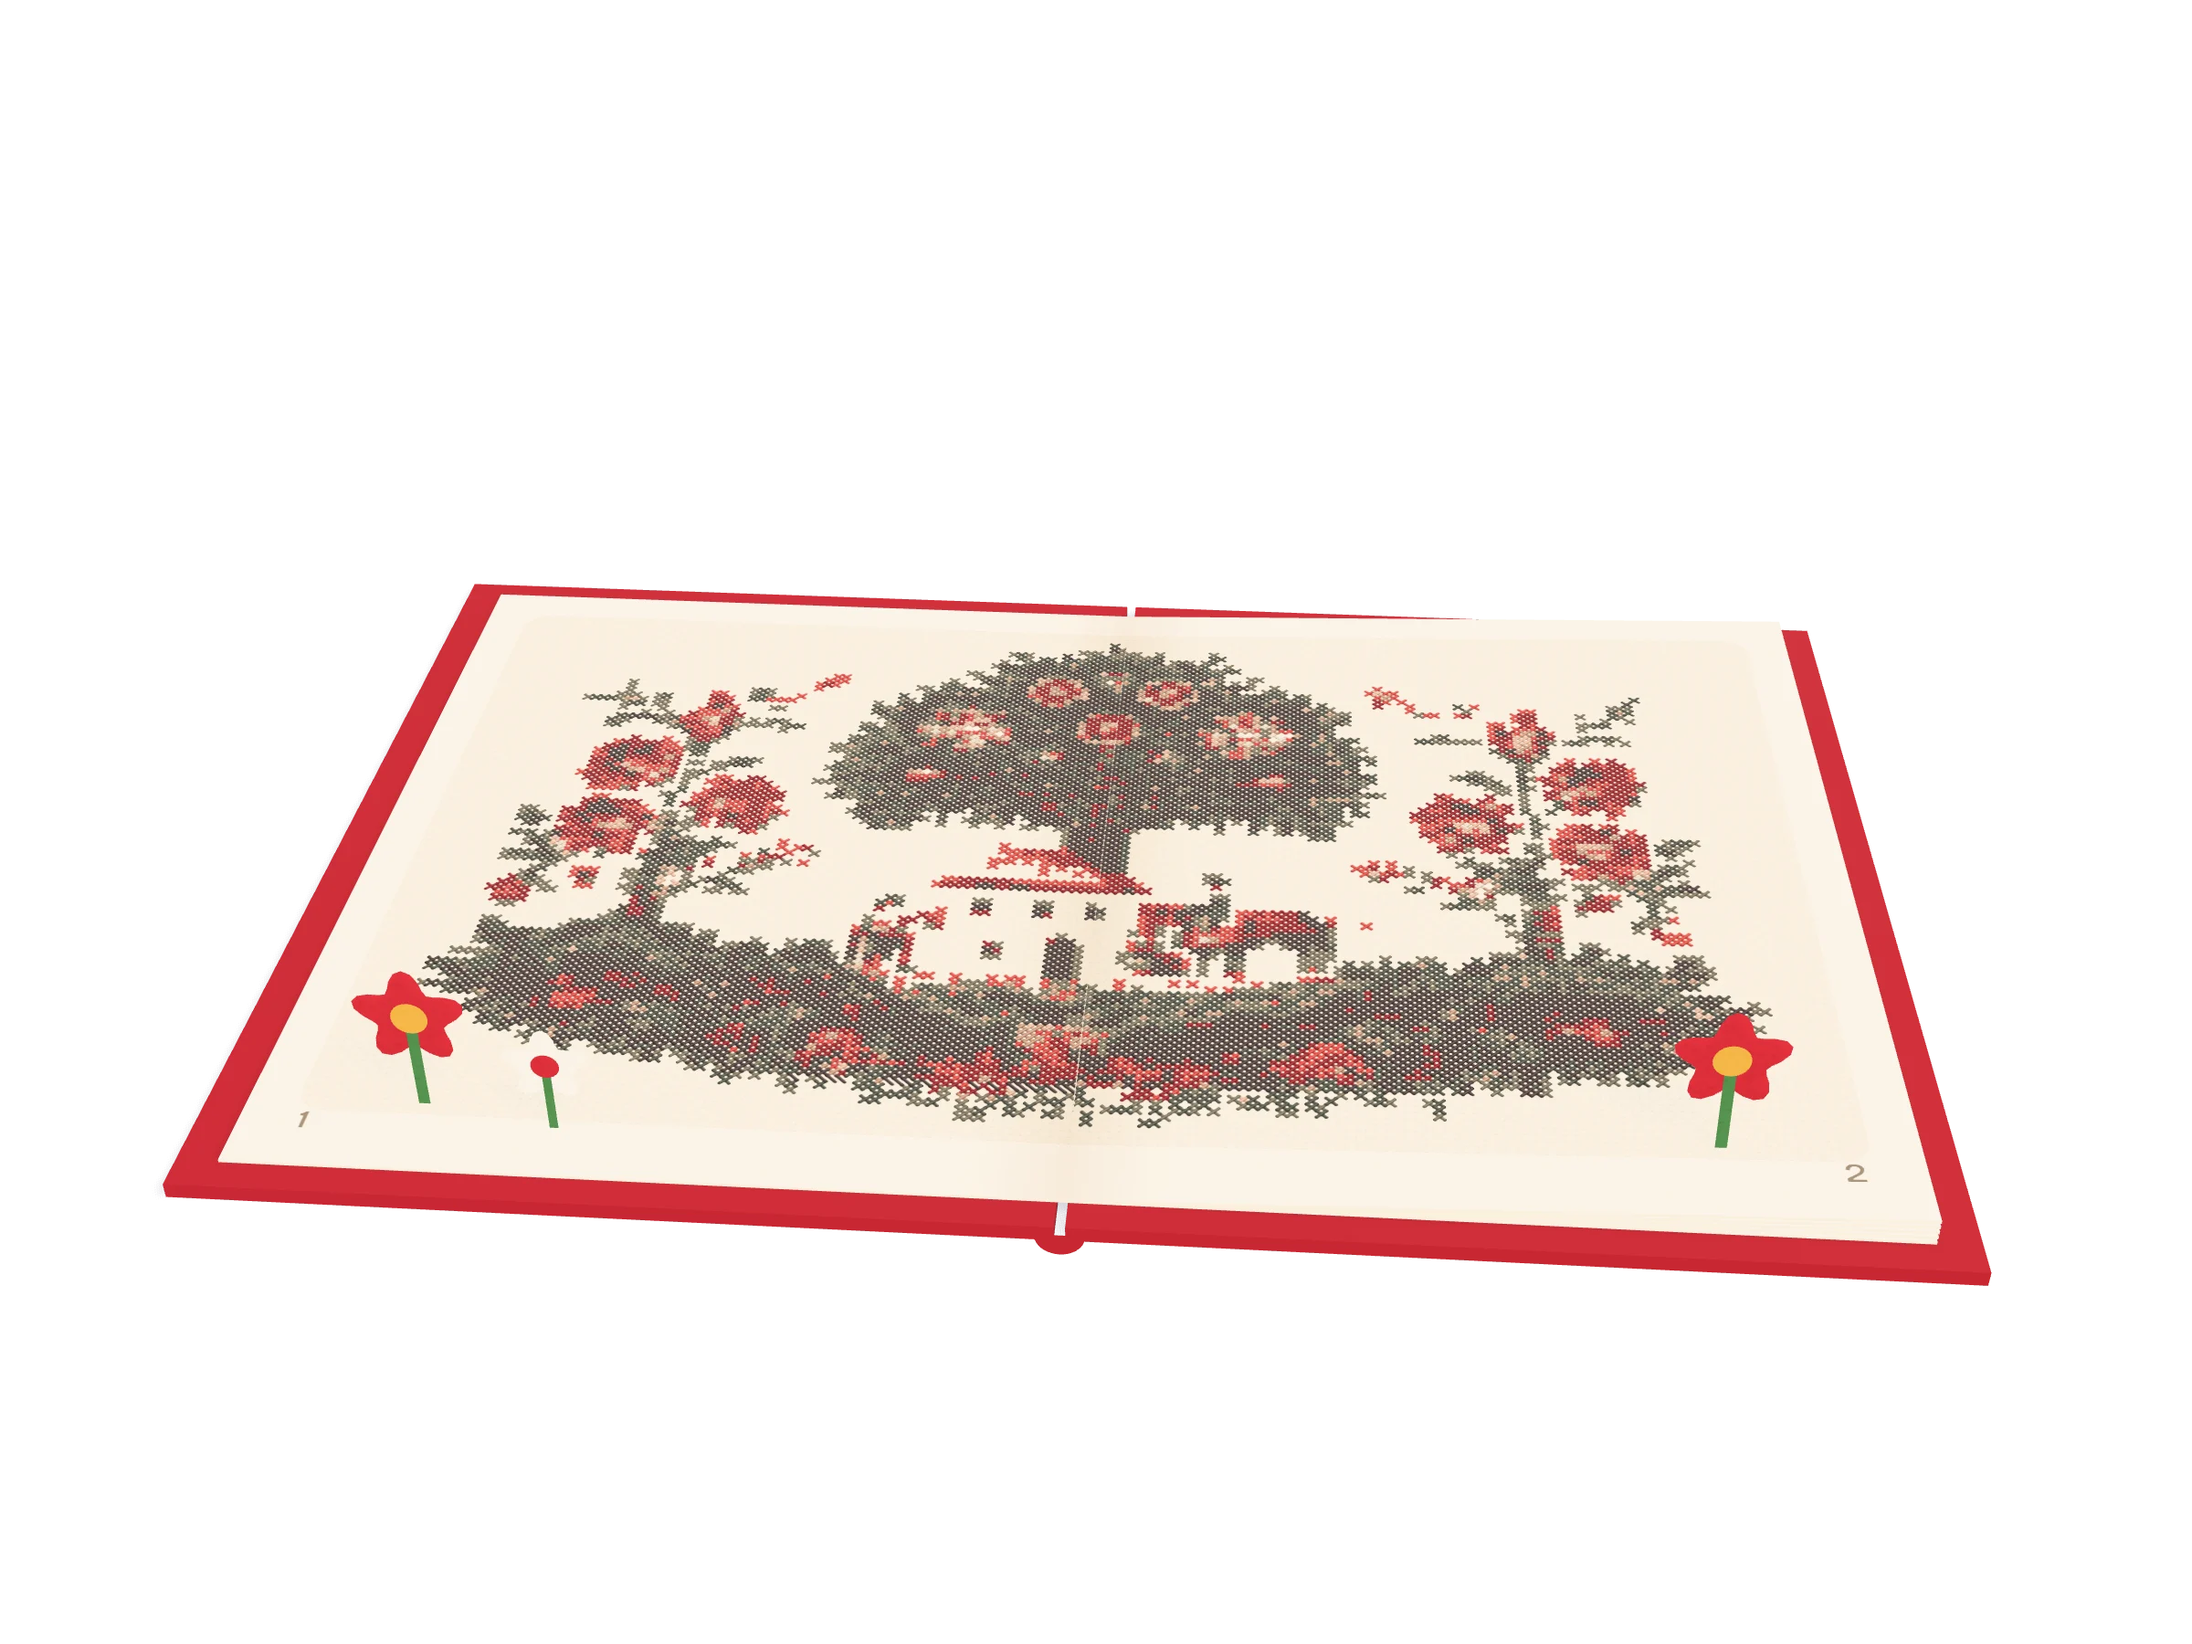
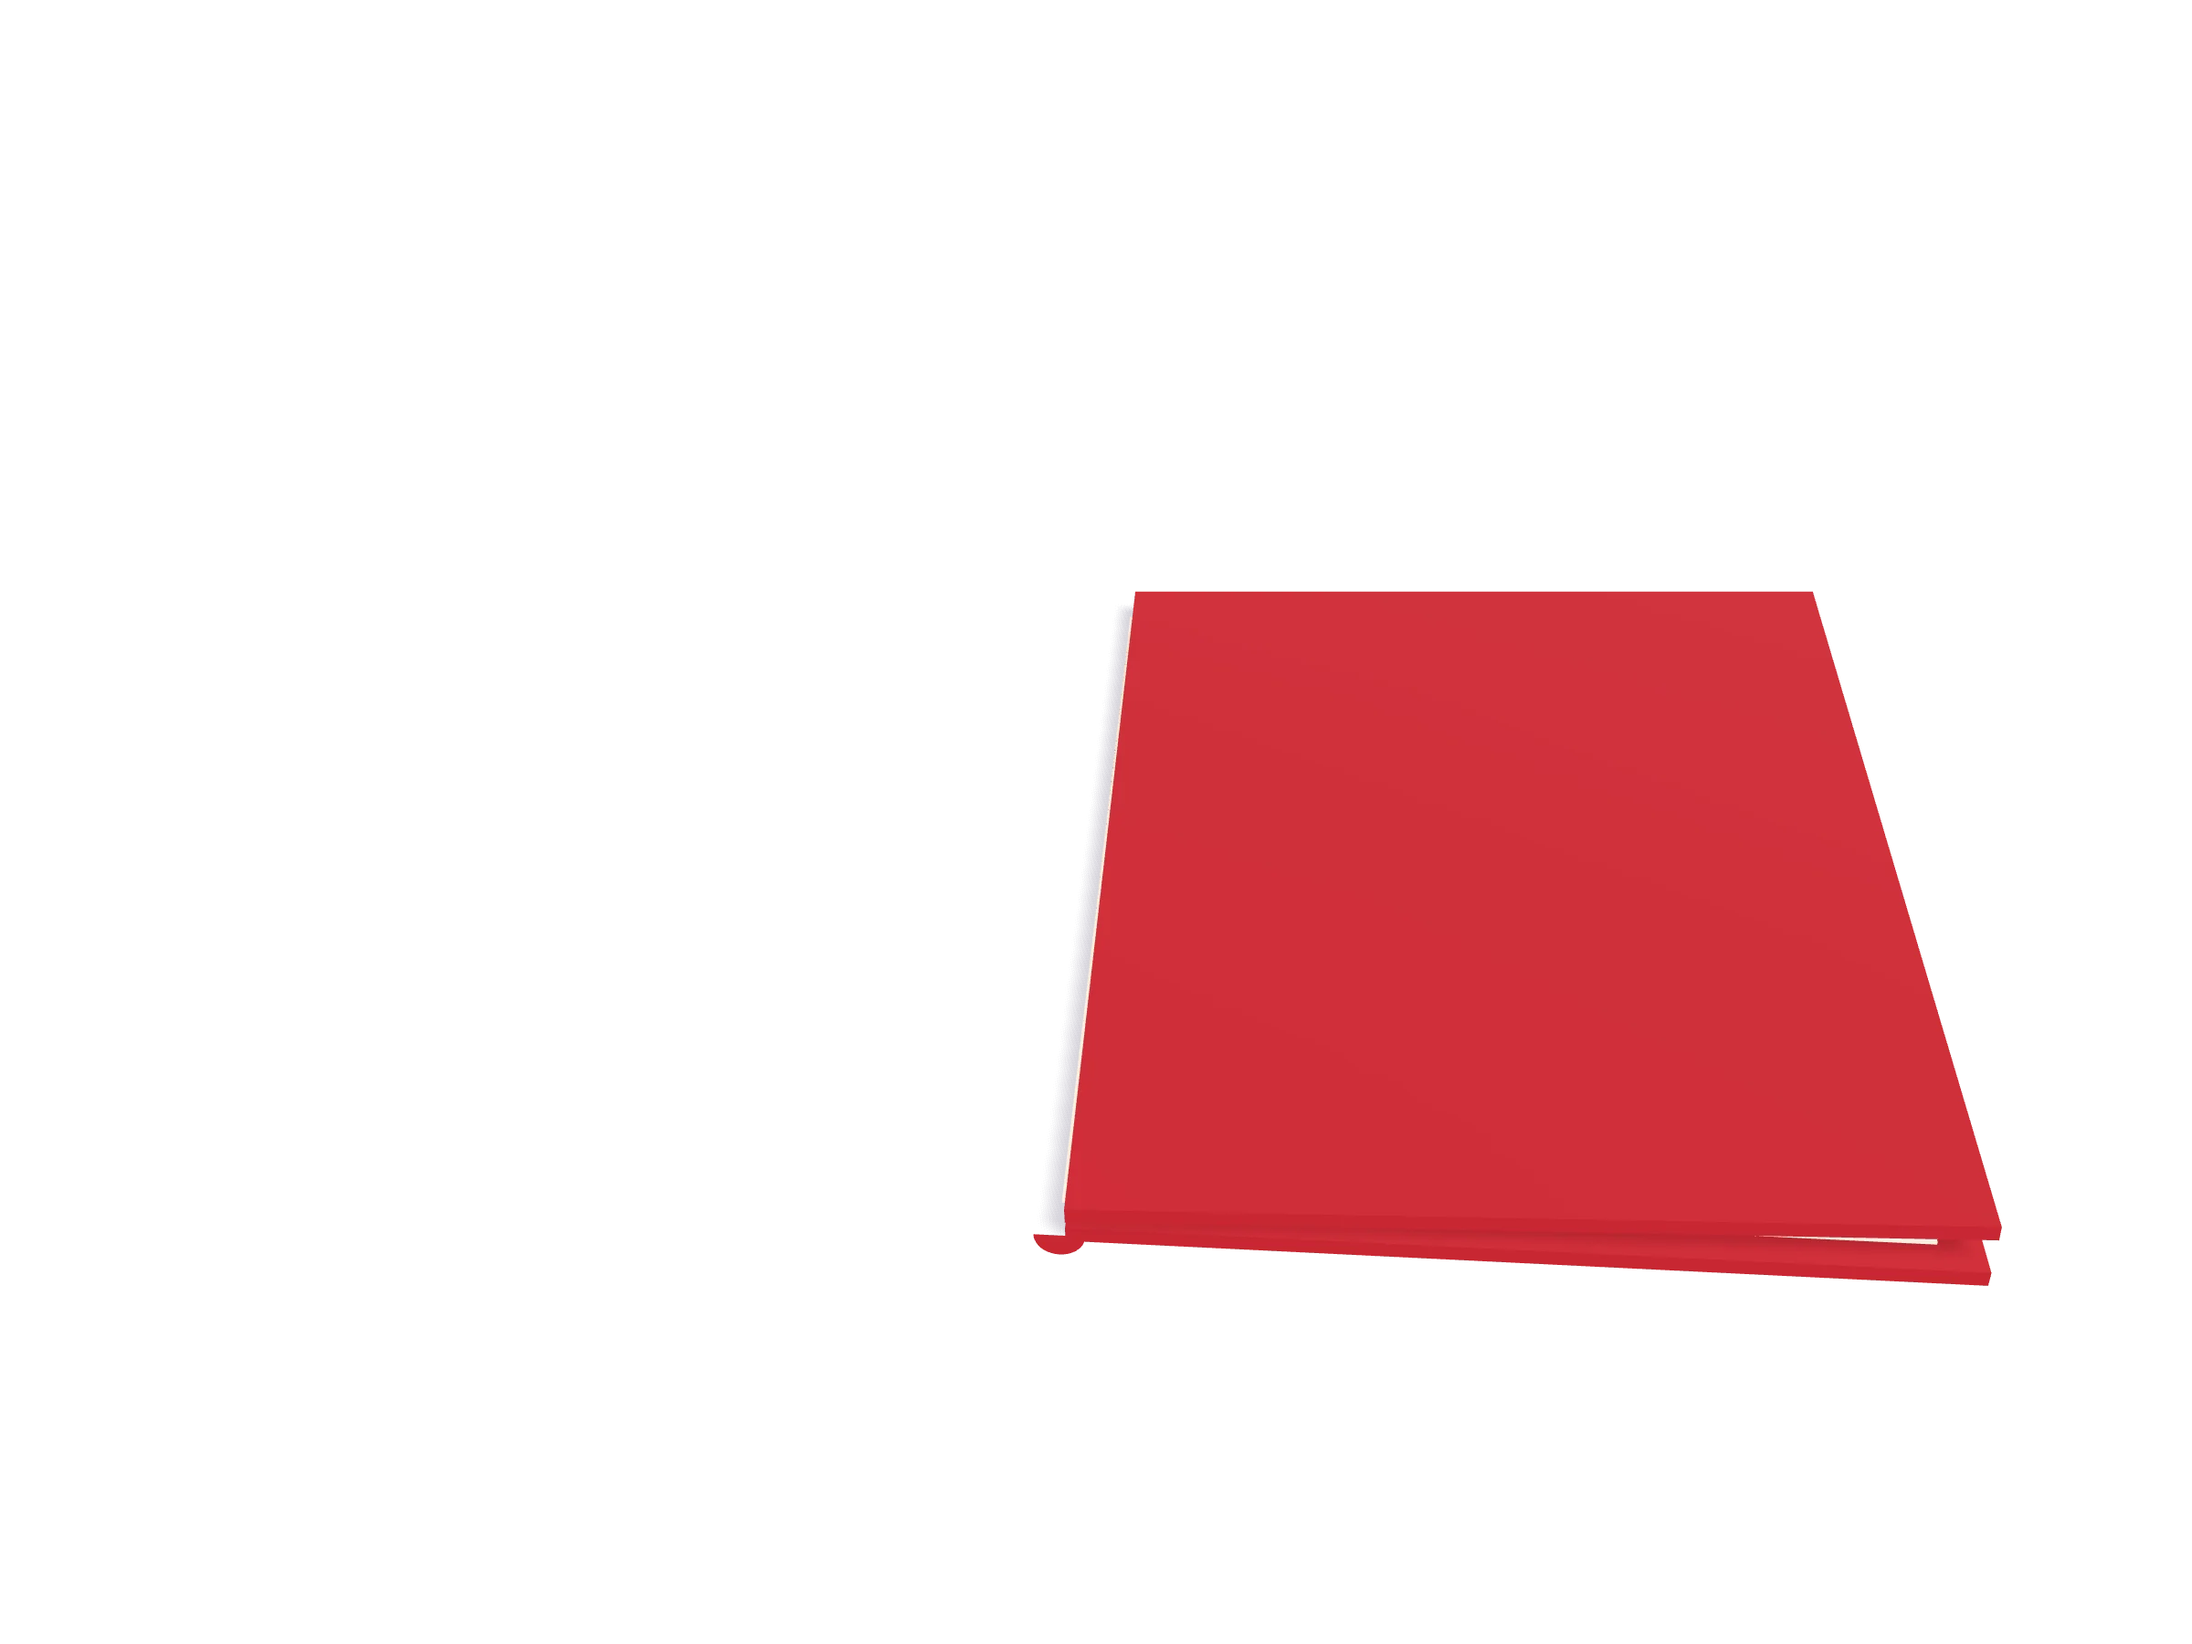
Add the book in Bulgarian, and open it from a closed cover
The same page at bg/, its words from src/i18n/bg.json (Popfold 0.47.0's languages), with an EN / БГ switch
and Cyrillic faces (Rubik, Nunito) for the Bulgarian page. The book now starts shut and its cover opens on
the first scroll, so page one is sewn as it opens like the others. Popfold is on martenitsa/book-art,
rebased onto 0.47.0.

Changed region(s): [[0.0625, 0.3422, 0.9375, 0.7778]]

diff --git a/index.html b/index.html
@@ -14,27 +14,44 @@
   <canvas id="scene" aria-hidden="true"></canvas>
 
   <header class="site-header">
-    <a class="brand" href="#farewell">the first <b>martenitsa</b></a>
+    <a class="brand" href="#cover">the first <b>martenitsa</b></a>
     <nav aria-label="Pages">
       <a href="#tower">Huba</a>
       <a href="#danube">The Danube</a>
       <a href="#thread">The red thread</a>
       <a class="btn btn-small" href="#martenitsa">The martenitsa</a>
     </nav>
+    <!-- One link per language: popfoldFallback fills in where each goes (vite.config.ts lists the pages) -->
+    <nav class="langs" aria-label="Languages">
+      <a data-pf-lang="en" lang="en">EN</a>
+      <a data-pf-lang="bg" lang="bg">БГ</a>
+    </nav>
   </header>
 
   <main id="main">
     <!-- Each .stage section drives one beat of the 3D scene ("beats" in src/home.json), in the same order, and its id
-         is the beat's id. Each beat is one page of the book (its "pages" in src/home.json): scrolling turns them. -->
-    <section class="stage" id="farewell" data-text="left">
+         is the beat's id. The first beat shows the book shut ("closed" in src/home.json); each beat after it is one
+         page of the book (its "pages"): scrolling opens the cover, then turns them. -->
+    <section class="stage" id="cover" data-text="left">
       <div class="card card-hero">
         <p class="eyebrow">A Bulgarian legend</p>
         <h1>The first martenitsa</h1>
-        <p class="lead">Khan Kubrat told his sons to stay together, like a bundle of arrows no one can break. When he died, his son Asparuh led his people south to find a new home.</p>
+        <p class="lead">How a white thread turned red, told in a pop-up book of cross-stitch.</p>
+        <div class="actions">
+          <a class="btn" href="#farewell">Open the book</a>
+        </div>
+        <p class="tap-hint">Scroll to open the book and turn its pages: each one is sewn as it opens. Click a dot for more of the story.</p>
+      </div>
+    </section>
+
+    <section class="stage" id="farewell" data-text="left">
+      <div class="card">
+        <p class="eyebrow">Page one</p>
+        <h2>The bundle of arrows</h2>
+        <p>Khan Kubrat told his sons to stay together, like a bundle of arrows no one can break. When he died, his son Asparuh led his people south to find a new home.</p>
         <div class="actions">
           <a class="btn" href="#tower">Turn the page</a>
         </div>
-        <p class="tap-hint">Scroll to turn the pages: each one is sewn as it opens. Click a dot for more of the story.</p>
       </div>
     </section>
 

diff --git a/src/style.css b/src/style.css
@@ -32,6 +32,10 @@ a { color: inherit; }
 nav { display: flex; align-items: center; gap: 6px; }
 nav a { text-decoration: none; font-weight: 600; font-size: 15px; padding: 8px 12px; border-radius: 999px; }
 nav a:not(.btn):hover { background: rgba(58, 42, 30, 0.08); }
+/* the language links: the page's own language is marked (popfoldFallback sets aria-current) */
+.langs { margin-left: auto; gap: 2px; }
+.langs a { font-size: 13px; padding: 6px 9px; }
+.langs a[aria-current="page"] { background: rgba(58, 42, 30, 0.1); }
 
 .btn {
   display: inline-flex; align-items: center; padding: 12px 20px; border-radius: 999px; font-weight: 700; text-decoration: none;
@@ -68,7 +72,7 @@ h3 { font-size: 19px; }
 @media (max-width: 820px) {
   .stage { align-items: flex-end; padding-bottom: 6vh; }
   .stage[data-text] { justify-content: center; }
-  nav a:not(.btn) { display: none; }
+  nav:not(.langs) a:not(.btn) { display: none; }
 }
 @media (prefers-reduced-motion: reduce) {
   html { scroll-behavior: auto; }
@@ -76,3 +80,6 @@ h3 { font-size: 19px; }
 }
 
 .card .small { font-size: 0.85rem; opacity: 0.75; margin-top: 0.8rem; }
+
+/* Bulgarian: the site's two faces have no Cyrillic, so the Bulgarian page (and the БГ link) uses two that do */
+:lang(bg) { --display: 'Rubik Variable', Georgia, serif; --body: 'Nunito Variable', system-ui, sans-serif; }

diff --git a/vite.config.ts b/vite.config.ts
@@ -11,8 +11,12 @@ export default defineConfig({
     homeSaver({ home: 'src/home.json' }), // the studio's Save writes moved pieces into the home file
     popfoldFallback({
       siteName: 'The First Martenitsa',
-      homeFile: 'src/home.json', // its pieces' stories are written under their sections, and its id names the stills
-      storiesHeading: 'On this page',
+      pages: [
+        // its pieces' stories are written under their sections, and its id names the stills
+        { html: 'index.html', homeFile: 'src/home.json', storiesHeading: 'On this page' },
+        // the same page in Bulgarian, at bg/: its words swapped by src/i18n/bg.json
+        { html: 'bg/index.html', from: 'index.html', lang: 'bg', text: 'src/i18n/bg.json', homeFile: 'src/home.json', storiesHeading: 'On this page' },
+      ],
     }),
   ],
   build: {

diff --git a/src/main.ts b/src/main.ts
@@ -1,5 +1,7 @@
 import '@fontsource-variable/dm-sans';
 import '@fontsource-variable/bricolage-grotesque';
+import '@fontsource-variable/rubik'; // the Bulgarian page's faces: they have Cyrillic
+import '@fontsource-variable/nunito';
 import './style.css';
 import { markFallback, markReady, scrollStage, shouldStart3D, viewToggle } from 'popfold/fallback';
 
